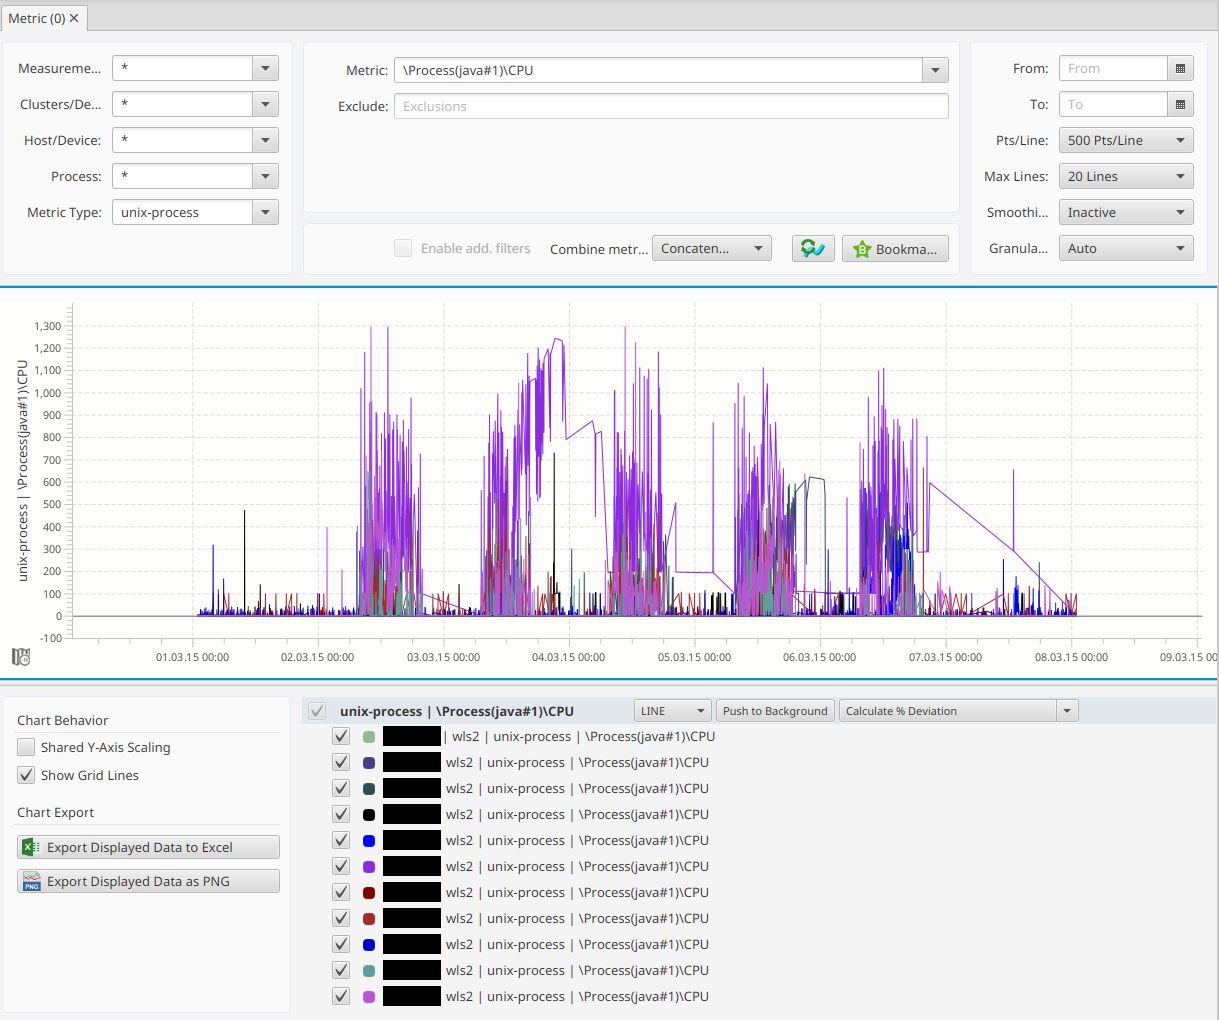
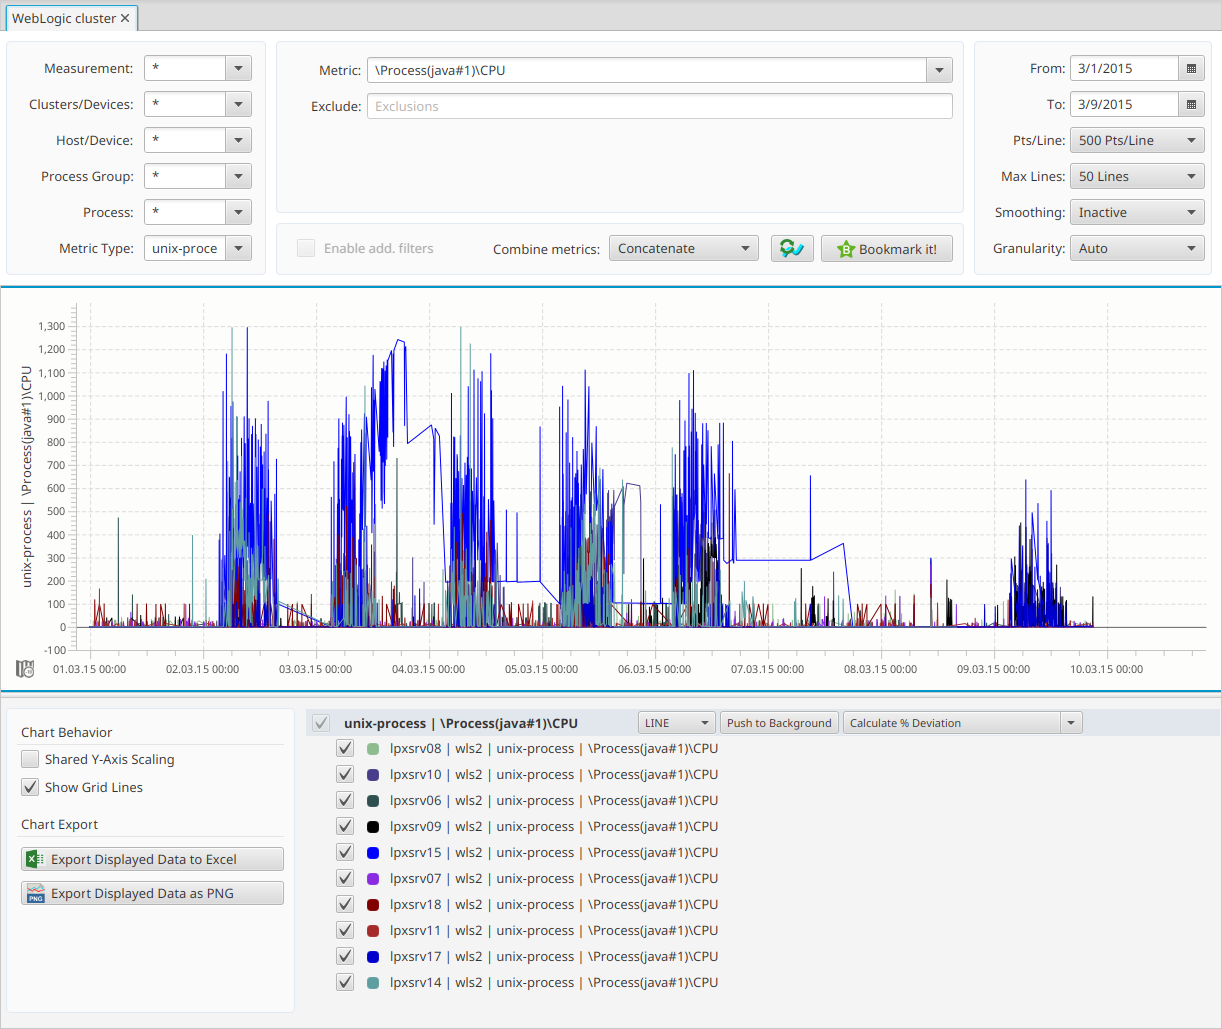
docs: the CPU chart of the cluster, new from the obfuscated data
The example chart is taken anew with the current workbench from the
obfuscated collector files of 1 to 9 March 2015: the java process of
wls2 on every node, \Process(java#1)\CPU. The host names in the legend
are made up, so nothing has to be blacked out any more.

The chart has ten lines, not eleven: the eleventh host, lixsrv107, has
only headers for wls2 and no values. The texts that describe the picture
say ten nodes now, and the caption on the site says the host names are
replaced instead of blacked out.

diff --git a/site/index.html b/site/index.html
@@ -242,8 +242,8 @@
     <div class="story-grid top">
       <div class="story-text reveal">
         <div class="section-label" data-de="Ein echter Fall" data-pt="Um caso real">A real case</div>
-        <h2 class="section-title" data-de="Elf Knoten, eine Woche, ein Ausreißer" data-pt="Onze nós, uma semana, um ponto fora da curva">Eleven nodes, one week, one outlier</h2>
-        <p data-de="Die CPU-Last des WebLogic-Java-Prozesses auf elf Knoten eines Clusters, eine Woche im März 2015, per Wildcard in einer Ansicht." data-pt="A carga de CPU do processo Java do WebLogic em onze nós de um cluster, uma semana em março de 2015, reunidos por wildcard em uma única visão.">The CPU load of the WebLogic Java process on eleven nodes of a cluster, one week in March 2015, selected by wildcard into one view.</p>
+        <h2 class="section-title" data-de="Zehn Knoten, eine Woche, ein Ausreißer" data-pt="Dez nós, uma semana, um ponto fora da curva">Ten nodes, one week, one outlier</h2>
+        <p data-de="Die CPU-Last des WebLogic-Java-Prozesses auf zehn Knoten eines Clusters, eine Woche im März 2015, per Wildcard in einer Ansicht." data-pt="A carga de CPU do processo Java do WebLogic em dez nós de um cluster, uma semana em março de 2015, reunidos por wildcard em uma única visão.">The CPU load of the WebLogic Java process on ten nodes of a cluster, one week in March 2015, selected by wildcard into one view.</p>
         <ul class="finding-list stacked">
           <li><span class="finding-num" data-de="zu sehen" data-pt="o que se vê">visible</span><span data-de="Die Anwendung wird nur tagsüber genutzt, von Montag bis Freitag. Und <strong>ein Server liegt die ganze Woche deutlich über den anderen</strong>." data-pt="A aplicação só é usada durante o dia, de segunda a sexta. E <strong>um servidor fica bem acima dos outros a semana inteira</strong>.">The application is only used during the day, Monday to Friday. And <strong>one server stays well above the others all week</strong>.</span></li>
           <li><span class="finding-num red" data-de="nicht im Bild" data-pt="fora da imagem">not in the picture</span><span data-de="Warum das so ist. Das Bild liefert aber die drei Angaben, auf die es ankommt: <strong>welcher Server, welcher Zeitraum und womit man ihn vergleicht</strong>." data-pt="O porquê. Mas a imagem traz os três fatos que importam: <strong>qual servidor, qual período e com o que compará-lo</strong>.">Why this is so. But the picture gives the three facts that matter: <strong>which server, which period, and what to compare it with</strong>.</span></li>
@@ -259,9 +259,9 @@
       </div>
       <figure class="reveal sticky">
         <a class="shot" href="img/beispiel-cpu-cluster-2015.png" data-lightbox>
-          <img src="img/beispiel-cpu-cluster-2015.png" width="1219" height="1020" loading="lazy" alt="Chart of the CPU load of one Java process on eleven cluster nodes over one week in March 2015; one line stays well above the others." data-alt-de="Chart der CPU-Last eines Java-Prozesses auf elf Cluster-Knoten über eine Woche im März 2015; eine Linie liegt deutlich über den anderen." data-alt-pt="Gráfico da carga de CPU de um processo Java em onze nós de um cluster ao longo de uma semana em março de 2015; uma linha fica bem acima das outras.">
+          <img src="img/beispiel-cpu-cluster-2015.png" width="1222" height="1029" loading="lazy" alt="Chart of the CPU load of one Java process on ten cluster nodes over one week in March 2015; one line stays well above the others." data-alt-de="Chart der CPU-Last eines Java-Prozesses auf zehn Cluster-Knoten über eine Woche im März 2015; eine Linie liegt deutlich über den anderen." data-alt-pt="Gráfico da carga de CPU de um processo Java em dez nós de um cluster ao longo de uma semana em março de 2015; uma linha fica bem acima das outras.">
         </a>
-        <figcaption class="shot-caption" data-de="Das Original aus der Workbench. Die Hostnamen sind geschwärzt." data-pt="O original da workbench. Os nomes dos hosts estão ocultados.">The original from the workbench. The host names are blacked out.</figcaption>
+        <figcaption class="shot-caption" data-de="Aus der Workbench, mit den echten Messwerten. Die Hostnamen sind ersetzt." data-pt="Da workbench, com os valores medidos reais. Os nomes dos hosts foram substituídos.">From the workbench, with the real measurements. The host names are replaced.</figcaption>
       </figure>
     </div>
   </div>

diff --git a/README.de.md b/README.de.md
@@ -20,9 +20,9 @@ vergleicht viele Systeme und zeichnet dann gezieltere Metriken auf oder grenzt Z
 und Prozesse immer weiter ein, bis der entscheidende Unterschied sichtbar wird. Es gibt keinen
 für immer festgelegten Monitoring-Katalog; welche Messwerte wichtig sind, bestimmt der Fall.
 
-![CPU-Last des WebLogic-Prozesses auf elf Knoten eines Clusters, eine Woche im März 2015](docs/images/beispiel-cpu-cluster-2015.png)
+![CPU-Last des WebLogic-Prozesses auf zehn Knoten eines Clusters, eine Woche im März 2015](docs/images/beispiel-cpu-cluster-2015.png)
 
-Das Bild zeigt die CPU-Last desselben Java-Prozesses auf elf Knoten eines Clusters über eine Woche. Man sieht, dass die Anwendung nur tagsüber von Montag bis Freitag genutzt wird und dass ein Server die ganze Woche deutlich über den anderen liegt. Warum das so ist, sagt das Bild nicht. Es liefert aber die drei Angaben, auf die es ankommt: welcher Server, welcher Zeitraum und womit man ihn vergleicht. Die Ursache war am Ende ein fehlerhaftes Load Balancing im Client; der ganze Fall steht in [docs/positioning.de.md](docs/positioning.de.md#ein-beispiel).
+Das Bild zeigt die CPU-Last desselben Java-Prozesses auf zehn Knoten eines Clusters über eine Woche. Man sieht, dass die Anwendung nur tagsüber von Montag bis Freitag genutzt wird und dass ein Server die ganze Woche deutlich über den anderen liegt. Warum das so ist, sagt das Bild nicht. Es liefert aber die drei Angaben, auf die es ankommt: welcher Server, welcher Zeitraum und womit man ihn vergleicht. Die Ursache war am Ende ein fehlerhaftes Load Balancing im Client; der ganze Fall steht in [docs/positioning.de.md](docs/positioning.de.md#ein-beispiel).
 
 ## Die Fragen, um die es geht
 

diff --git a/README.md b/README.md
@@ -20,9 +20,9 @@ then records more specific metrics or narrows the time, systems and processes un
 difference becomes visible. It is not a permanently prescribed monitoring catalogue; what matters
 enough to record depends on the case.
 
-![CPU load of the WebLogic process on eleven nodes of a cluster, one week in March 2015](docs/images/beispiel-cpu-cluster-2015.png)
+![CPU load of the WebLogic process on ten nodes of a cluster, one week in March 2015](docs/images/beispiel-cpu-cluster-2015.png)
 
-The picture shows the CPU load of the same Java process on eleven nodes of a cluster over one week. You can see that the application is only used during the day from Monday to Friday, and that one server stays well above the others all week. The picture does not say why. It does give the three facts that matter: which server, which period, and what to compare it with. In the end the cause was faulty load balancing in the client; the whole case is described in [docs/positioning.md](docs/positioning.md#an-example).
+The picture shows the CPU load of the same Java process on ten nodes of a cluster over one week. You can see that the application is only used during the day from Monday to Friday, and that one server stays well above the others all week. The picture does not say why. It does give the three facts that matter: which server, which period, and what to compare it with. In the end the cause was faulty load balancing in the client; the whole case is described in [docs/positioning.md](docs/positioning.md#an-example).
 
 ## The questions it is about
 

diff --git a/docs/positioning.de.md b/docs/positioning.de.md
@@ -46,9 +46,9 @@ Ein typischer Einsatz geht über organisatorische Grenzen. An großen verteilten
 
 ## Ein Beispiel
 
-![CPU des WebLogic-Prozesses auf elf Knoten eines Clusters, eine Woche im März 2015](images/beispiel-cpu-cluster-2015.png)
+![CPU des WebLogic-Prozesses auf zehn Knoten eines Clusters, eine Woche im März 2015](images/beispiel-cpu-cluster-2015.png)
 
-Das Bild zeigt die CPU-Last des WebLogic-Java-Prozesses auf elf Knoten eines Clusters über eine Woche im März 2015, per Wildcard in einer Ansicht.
+Das Bild zeigt die CPU-Last des WebLogic-Java-Prozesses auf zehn Knoten eines Clusters über eine Woche im März 2015, per Wildcard in einer Ansicht.
 
 **Was man sieht.** Die Anwendung wird nur tagsüber genutzt, von Montag bis Freitag. Nachts gibt es einzelne Spitzen, am Wochenende weniger. Und ein Server liegt die ganze Woche deutlich über den anderen.
 

diff --git a/docs/positioning.md b/docs/positioning.md
@@ -46,9 +46,9 @@ A typical assignment crosses organisational boundaries. Large distributed applic
 
 ## An example
 
-![CPU of the WebLogic process on eleven nodes of a cluster, one week in March 2015](images/beispiel-cpu-cluster-2015.png)
+![CPU of the WebLogic process on ten nodes of a cluster, one week in March 2015](images/beispiel-cpu-cluster-2015.png)
 
-The picture shows the CPU load of the WebLogic Java process on eleven nodes of a cluster over one week in March 2015, selected by wildcard into one view.
+The picture shows the CPU load of the WebLogic Java process on ten nodes of a cluster over one week in March 2015, selected by wildcard into one view.
 
 **What you see.** The application is only used during the day, from Monday to Friday. There are isolated peaks at night, fewer at the weekend. And one server stays well above the others all week.
 
